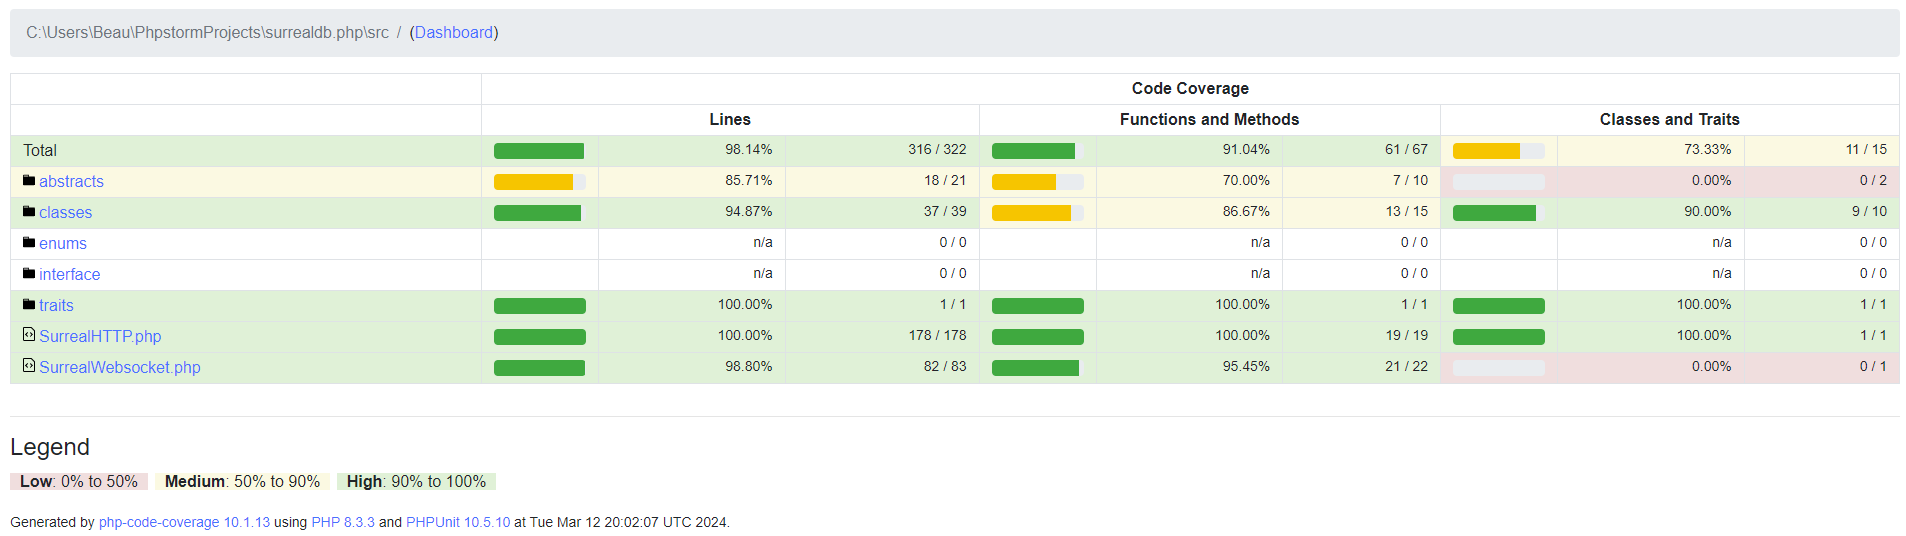
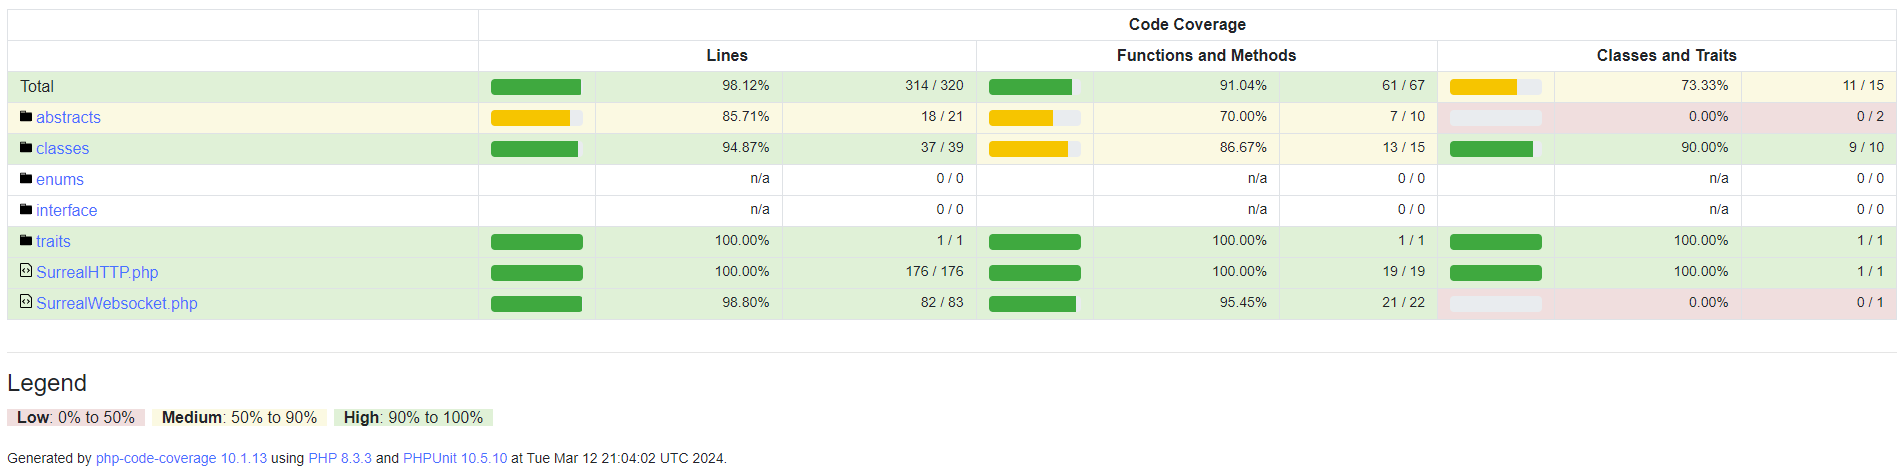
chore: update readme.md
- update documentation

diff --git a/README.md b/README.md
@@ -295,6 +295,6 @@ file_put_contents("some_path_to_surql_file.surql", $file); // <-- save the file
 - [ ] Psalm and PHPStan support for better type checking and code quality
 
 ## Coverage
-All the methods in the driver are covered with tests. The coverage is 98.14% as of version v1.0.0.
+All the methods in the driver are covered with tests. The coverage is 98.12% as of version v1.0.0.
 
 ![coverage.png](assets%2Fcoverage.png)
